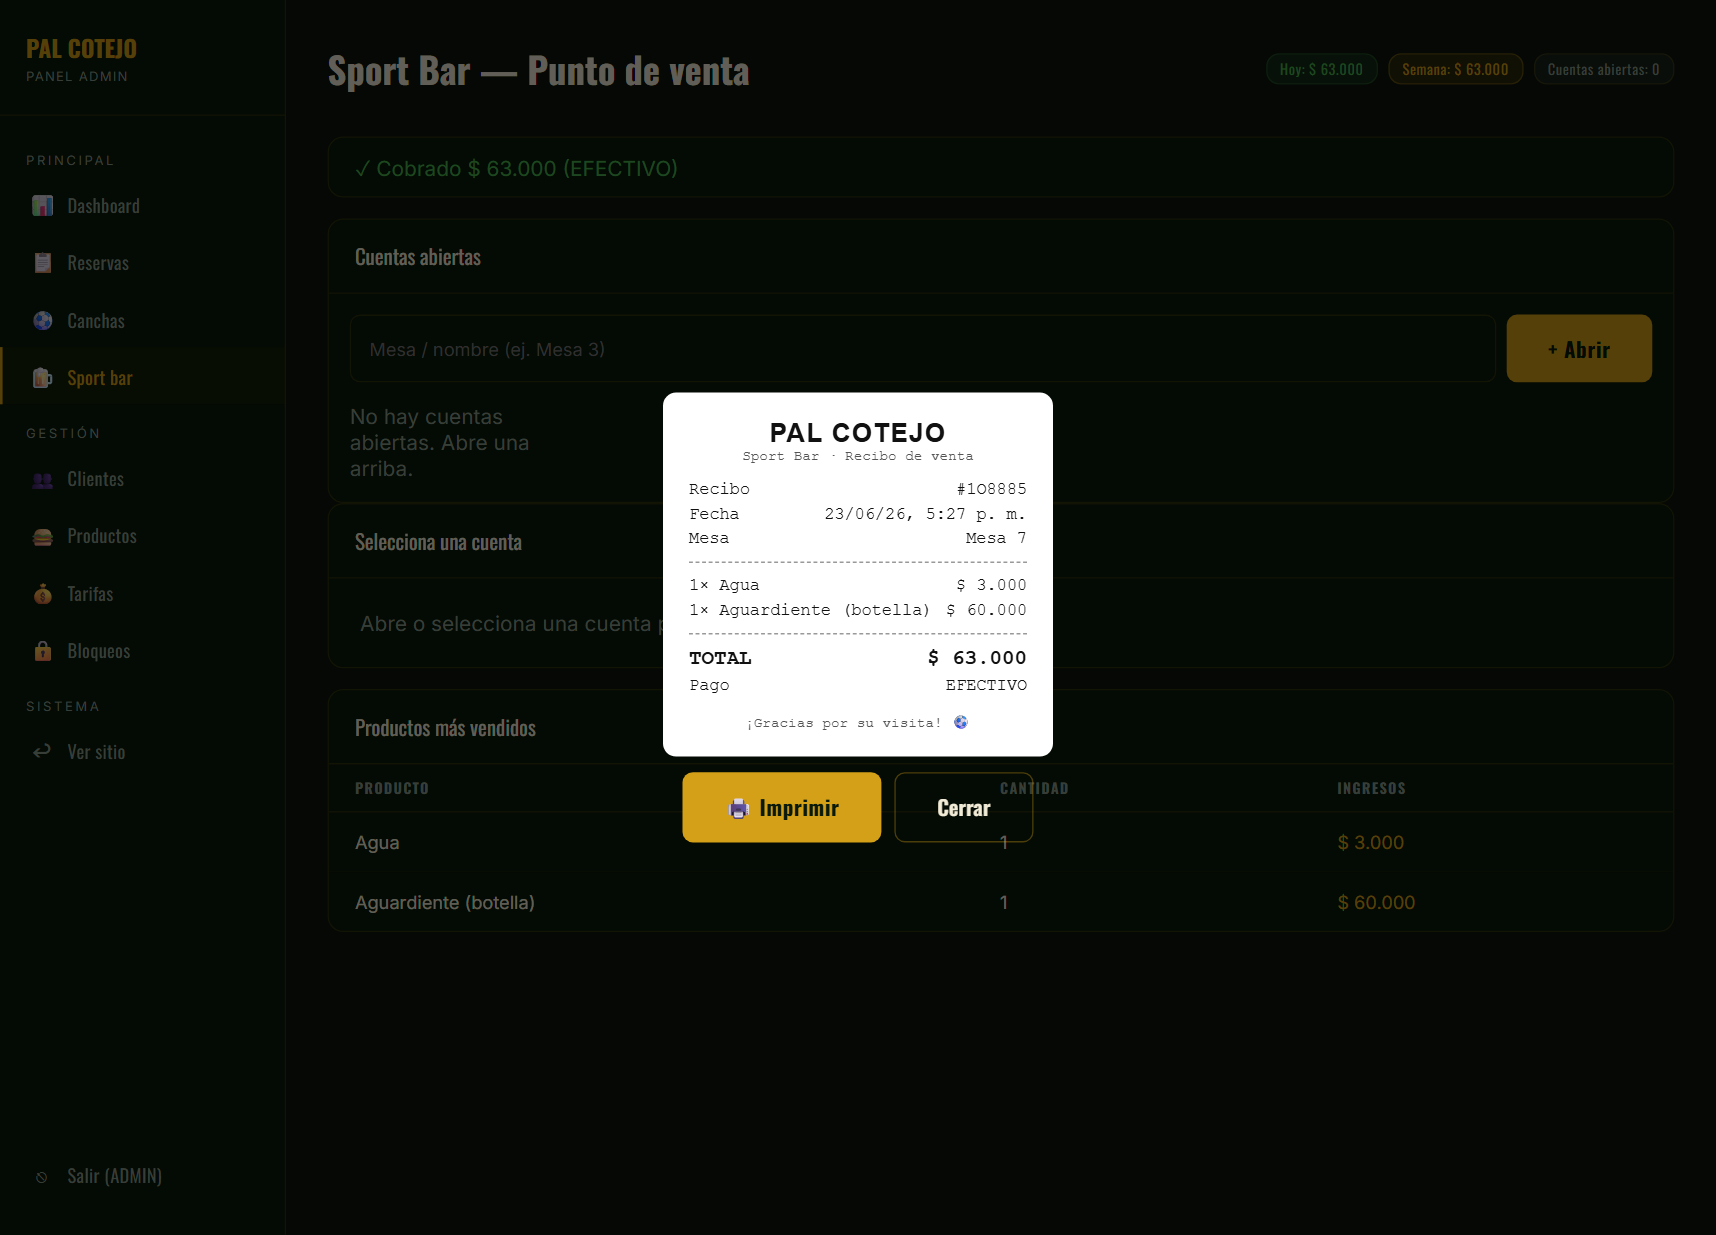
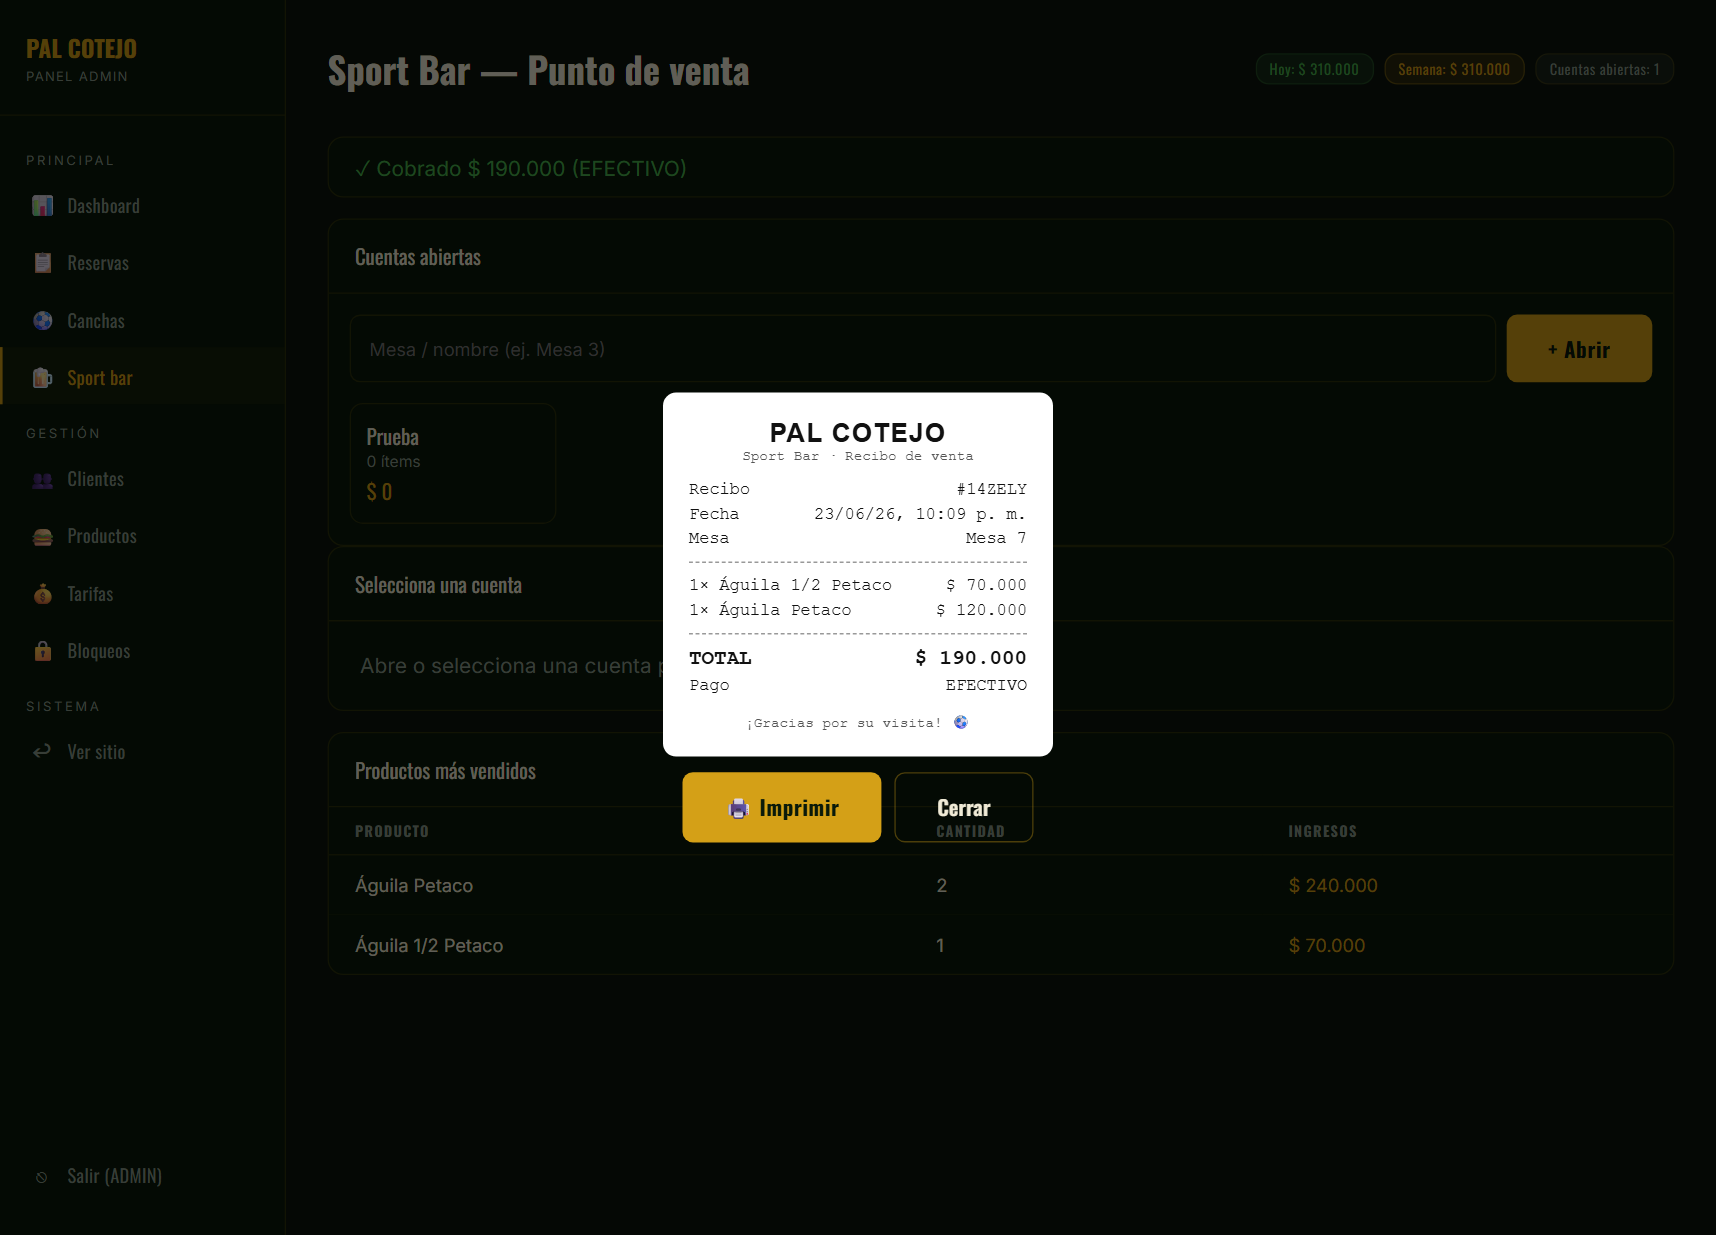
Guia del cajero (capacitacion super simple): manual + PDF imprimible

diff --git a/kit-presentacion/guia-cajero.html b/kit-presentacion/guia-cajero.html
@@ -1,0 +1,94 @@
+<!DOCTYPE html>
+<html lang="es">
+<head>
+<meta charset="UTF-8">
+<title>Guía rápida del cajero — PAL COTEJO</title>
+<style>
+  :root { --dark:#0A1A0A; --green:#1A7A2E; --gold:#D4A017; --cream:#F0EAD6; --rojo:#C0392B; }
+  * { box-sizing:border-box; margin:0; padding:0; }
+  body { font-family:"Segoe UI",Roboto,system-ui,sans-serif; color:#0f172a; background:#fff; }
+  .page { padding:28px 34px; }
+  .head { background:linear-gradient(135deg,var(--dark),var(--green)); color:#fff; padding:22px 34px; border-radius:0; }
+  .head .logo { font-size:30px; font-weight:800; color:var(--gold); letter-spacing:1px; }
+  .head h1 { font-size:23px; margin-top:2px; }
+  .head p { color:#cdebcf; font-size:14px; margin-top:6px; }
+  .cols { display:flex; gap:18px; margin-top:18px; }
+  .card { flex:1; border:2px solid var(--green); border-radius:14px; overflow:hidden; }
+  .card.bar { border-color:var(--gold); }
+  .card .title { padding:12px 16px; font-size:20px; font-weight:800; color:#fff; }
+  .card.bar .title { background:var(--gold); color:#3a2a00; }
+  .card.cancha .title { background:var(--green); }
+  .steps { padding:14px 16px; }
+  .step { display:flex; gap:12px; align-items:flex-start; margin-bottom:14px; }
+  .num { flex-shrink:0; width:30px; height:30px; border-radius:50%; background:var(--dark); color:var(--gold); font-weight:800; font-size:15px; display:flex; align-items:center; justify-content:center; }
+  .card.bar .num { background:var(--gold); color:#3a2a00; }
+  .step .txt { font-size:15px; line-height:1.4; padding-top:3px; }
+  .step .txt b { color:var(--dark); }
+  .tip { background:#f4f7f4; border-left:4px solid var(--green); font-size:12.5px; padding:8px 12px; border-radius:0 8px 8px 0; margin:6px 16px 14px; color:#445; }
+  .pay { display:flex; gap:8px; margin-top:6px; }
+  .pay span { background:var(--green); color:#fff; font-weight:700; padding:6px 14px; border-radius:8px; font-size:14px; }
+  .reglas { margin-top:18px; border:2px solid var(--rojo); border-radius:14px; padding:14px 18px; background:#fdf3f2; }
+  .reglas h2 { color:var(--rojo); font-size:17px; margin-bottom:8px; }
+  .reglas ol { margin-left:20px; }
+  .reglas li { font-size:14px; margin-bottom:6px; }
+  .ver { margin-top:14px; display:flex; gap:18px; font-size:13.5px; color:#445; }
+  .ver b { color:var(--dark); }
+  .foot { margin-top:14px; text-align:center; font-size:11.5px; color:#778; }
+  @page { size:A4; margin:0; }
+</style>
+</head>
+<body>
+<div class="head">
+  <div class="logo">PAL COTEJO</div>
+  <h1>🧾 Guía rápida del cajero</h1>
+  <p>Solo 2 cosas hace la caja: <b>vender en el bar</b> 🍺 y <b>reservar canchas</b> ⚽. ¡Fácil!</p>
+</div>
+
+<div class="page">
+  <div class="cols">
+
+    <!-- BAR -->
+    <div class="card bar">
+      <div class="title">🍺 Vender en el bar</div>
+      <div class="steps">
+        <div class="step"><div class="num">1</div><div class="txt">Clic en <b>Sport bar</b> (menú izquierdo).</div></div>
+        <div class="step"><div class="num">2</div><div class="txt">Escribe la <b>mesa</b> (ej. <i>Mesa 3</i>) y clic en <b>➕ Abrir</b>.</div></div>
+        <div class="step"><div class="num">3</div><div class="txt"><b>Toca los productos</b> que pide el cliente. Se suman solos.<br><span style="color:#777;font-size:13px;">¿Error? Toca la <b style="color:#C0392B;">✕ roja</b> al lado del producto.</span></div></div>
+        <div class="step"><div class="num">4</div><div class="txt">Cuando paga, clic en cómo pagó:<div class="pay"><span>💵 Efectivo</span><span>💳 Tarjeta</span></div></div></div>
+        <div class="step"><div class="num">5</div><div class="txt">Sale el <b>recibo</b> → <b>🖨️ Imprimir</b> y entrégaselo. <b style="color:#1A7A2E;">¡Listo!</b></div></div>
+      </div>
+      <div class="tip">💡 Cada mesa = <b>una cuenta</b>. Puedes tener varias abiertas a la vez.</div>
+    </div>
+
+    <!-- CANCHA -->
+    <div class="card cancha">
+      <div class="title">⚽ Reservar una cancha</div>
+      <div class="steps">
+        <div class="step"><div class="num">1</div><div class="txt">Clic en <b>Reservas</b> (menú izquierdo).</div></div>
+        <div class="step"><div class="num">2</div><div class="txt">Llena los datos del cliente:<br><b>Nombre · WhatsApp · Cancha · Fecha · Hora</b>.</div></div>
+        <div class="step"><div class="num">3</div><div class="txt">Clic en <b>Crear reserva manual</b>. <b style="color:#1A7A2E;">¡Listo!</b></div></div>
+      </div>
+      <div class="tip">💡 El que reserva por <b>internet</b> llega solo — no lo metes tú. Tú solo registras los de <b>teléfono o presenciales</b>.</div>
+    </div>
+
+  </div>
+
+  <!-- REGLAS -->
+  <div class="reglas">
+    <h2>⭐ 3 reglas de oro</h2>
+    <ol>
+      <li><b>Siempre cobra</b> (Efectivo/Tarjeta) <b>antes</b> de cerrar la cuenta.</li>
+      <li>Si te equivocas, usa la <b>✕</b> para quitar un producto — no borres nada más.</li>
+      <li>Si algo se ve raro o no sabes, <b>no toques</b>: llama al administrador.</li>
+    </ol>
+  </div>
+
+  <div class="ver">
+    <div>👀 <b>Dashboard</b> = ventas y reservas de hoy.</div>
+    <div>🍺 <b>Sport bar</b> (arriba) = ventas del bar hoy y de la semana.</div>
+  </div>
+
+  <div class="foot">PAL COTEJO · ¿Dudas? Llama al administrador · Soporte: Solucionez — [email redacted]</div>
+</div>
+</body>
+</html>

diff --git a/docs/MANUAL-CAJA.md b/docs/MANUAL-CAJA.md
@@ -1,0 +1,54 @@
+# 🧾 Guía rápida del cajero — PAL COTEJO
+
+> Hecho para que sea **fácil, fácil**. Solo 2 cosas hace la caja: **vender en el bar** y **reservar canchas**.
+
+---
+
+## ▶️ Para empezar
+1. Abre el ícono **PAL COTEJO** en el escritorio (o la página web).
+2. Si te pide usuario, escribe el de la caja y entra. (Normalmente ya queda abierto.)
+
+---
+
+## 🍺 VENDER EN EL BAR  *(lo que más vas a hacer)*
+
+1. Clic en **Sport bar** (menú de la izquierda).
+2. Escribe la **mesa** o el nombre (ej. *Mesa 3*) y clic en **➕ Abrir**.
+3. **Toca los productos** que pide el cliente (cerveza, gaseosa, picada…).
+   → se van **sumando solos** en la cuenta.
+   - ¿Te equivocaste? Toca la **✕ roja** al lado del producto para quitarlo.
+4. Cuando el cliente **paga**, clic en:
+   - **💵 Efectivo**  ó  **💳 Tarjeta**
+5. Sale el **recibo** → clic en **🖨️ Imprimir** y entrégaselo. **¡Listo!** ✅
+
+> 💡 Cada mesa o cliente del bar = **una cuenta**. Puedes tener varias abiertas a la vez.
+
+---
+
+## ⚽ RESERVAR UNA CANCHA  *(cuando llaman o llegan a la caja)*
+
+1. Clic en **Reservas** (menú de la izquierda).
+2. Llena los datos del cliente:
+   - **Nombre**
+   - **WhatsApp**
+   - **Cancha · Fecha · Hora**
+3. Clic en **Crear reserva manual**. **¡Listo!** ✅
+
+> 💡 El cliente que reserva por internet **NO** lo metes tú: llega solo. Tú solo registras los de **teléfono o presenciales**.
+
+---
+
+## 👀 VER CÓMO VA EL DÍA
+- **Dashboard** → cuánto se ha vendido hoy y las reservas del día.
+- **Sport bar** (arriba) → ventas del bar de hoy y de la semana.
+
+---
+
+## ⭐ 3 REGLAS DE ORO
+1. **Siempre cobra** (Efectivo/Tarjeta) **antes** de cerrar la cuenta.
+2. Si te equivocas, usa la **✕** para quitar un producto — no borres nada más.
+3. Si algo se ve raro o no sabes, **no toques**: llama al administrador.
+
+---
+
+*¿Dudas? Administrador / Solucionez · [email redacted]*